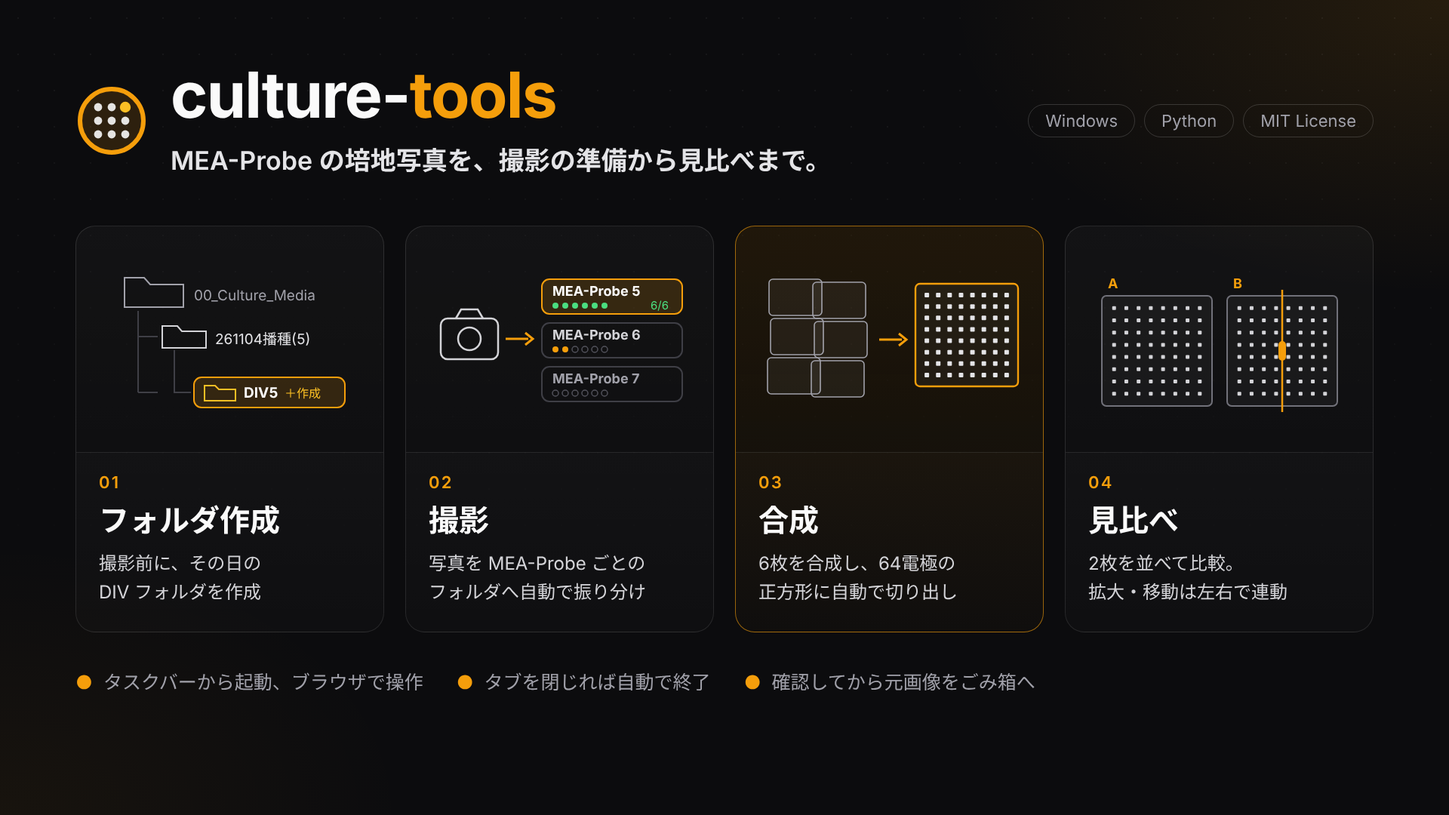
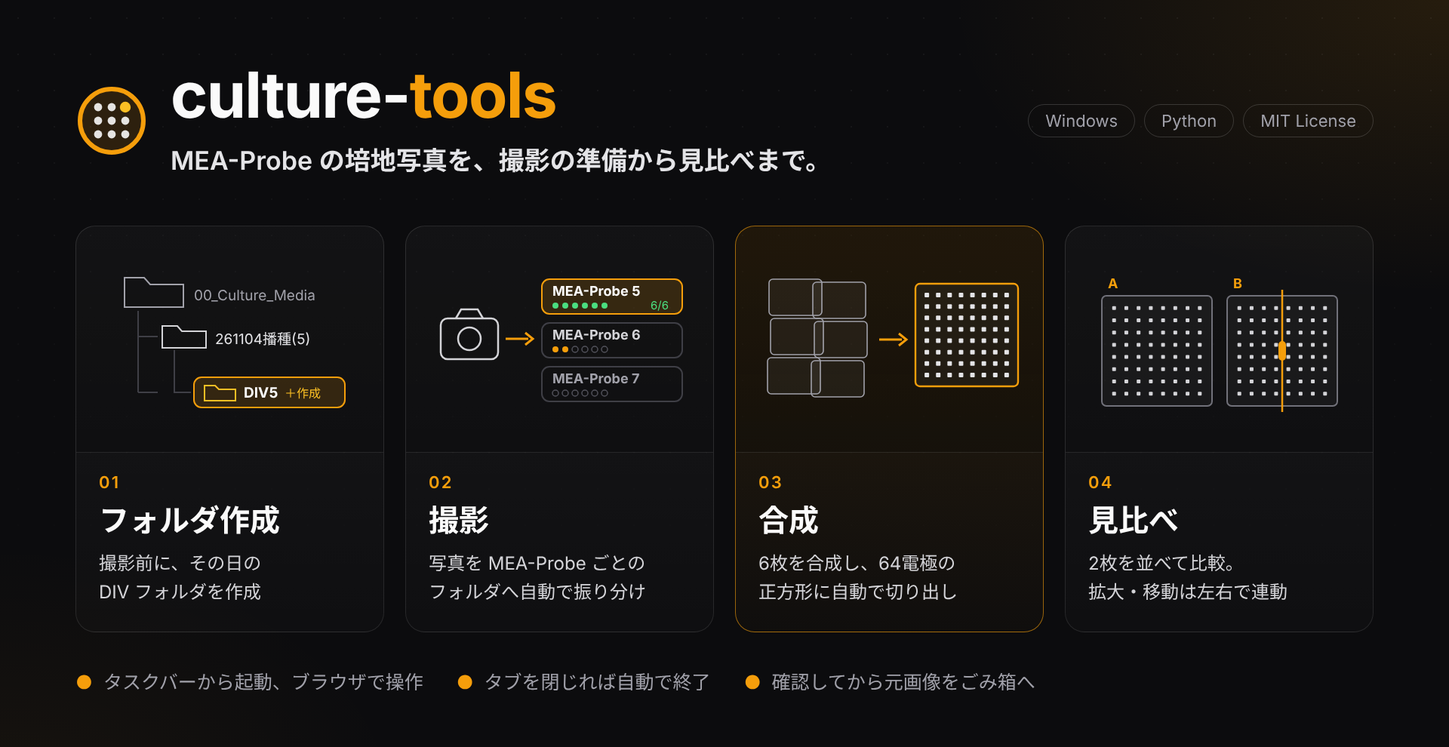
自分専用の環境に依存しない設計への変更

diff --git a/stitch/culture_stitch.py b/stitch/culture_stitch.py
@@ -1,7 +1,7 @@
 """MEA-Probe 培地写真の合成ツール
 
 使い方:
-    python culture_stitch.py stitch [フォルダ ...]   合成（フォルダ省略時は 00_Culture_Media 全体を走査）
+    python culture_stitch.py stitch [フォルダ ...]   合成（フォルダ省略時は、初回に選んだ写真のフォルダ全体を走査）
     python culture_stitch.py cleanup                 直前の合成で処理したフォルダの元画像をごみ箱へ移動
 
 合成のあとは確認ページを自分のパソコン内だけで配信し、ページのボタンから元画像を削除できる。
@@ -40,7 +40,7 @@ RAW_PATTERN = re.compile(r"^IMG_\d+\.jpe?g$", re.IGNORECASE)
 
 
 def load_root() -> Path | None:
-    """初回起動時に選んだ写真のフォルダ（00_Culture_Media）を読む。まだ選んでいなければ None"""
+    """初回起動時に選んだ写真のフォルダを読む。まだ選んでいなければ None"""
     try:
         p = json.loads(CONFIG.read_text(encoding="utf-8")).get("root")
     except (OSError, ValueError, AttributeError):
@@ -66,29 +66,21 @@ class FolderInfo:
 def parse_folder(folder: Path, raw_files: list[Path]) -> FolderInfo:
     """フォルダ名から Probe 番号・播種日・DIV（Days In Vitro: 播種後経過日数）を読み取る。
 
-    想定する構成:
-      261028播種(6)/DIV7              … 現行
-      260617播種(5, 6)/day7/5         … 旧形式（Probe ごとのサブフォルダ）
+    想定する構成: 261028播種(6)/DIV7（1 つの播種フォルダに Probe 番号は 1 つ）
     """
     probe = seed = div = None
     parts = folder.parts
     for i, name in enumerate(parts):
-        m = re.match(r"^(\d{6})播種\(([\d,\s]+)\)$", name)
+        m = re.match(r"^(\d{6})播種\((\d+)\)$", name)
         if not m:
             continue
         seed = dt.datetime.strptime(m.group(1), "%y%m%d").date()
-        probes = [int(x) for x in re.findall(r"\d+", m.group(2))]
+        probe = int(m.group(2))
         rest = parts[i + 1:]
         if rest:
-            d = re.match(r"^(?:DIV|day)(\d+)$", rest[0], re.IGNORECASE)
+            d = re.match(r"^DIV(\d+)$", rest[0], re.IGNORECASE)
             if d:
                 div = int(d.group(1))
-        if len(probes) == 1:
-            probe = probes[0]
-        else:
-            for name2 in rest[1:]:
-                if name2.isdigit() and int(name2) in probes:
-                    probe = int(name2)
         break
     return FolderInfo(folder, raw_files, probe, seed, div)
 
@@ -446,7 +438,7 @@ def render_page(results: list[Result], token: str | None = None, brand: str | No
         note = ("緑の円は検出した電極の位置です。画像をクリックすると原寸の合成画像を開きます。"
                 "このページは記録用です。元画像の削除は、culture-tools の「合成」画面から行えます。")
         bar = script = ""
-    return (f'<!doctype html><html lang="ja"><meta charset="utf-8"><title>合成結果の確認 | culture-stitcher</title>'
+    return (f'<!doctype html><html lang="ja"><meta charset="utf-8"><title>合成結果の確認 | culture-tools</title>'
             f'<link rel="icon" type="image/svg+xml" href="{FAVICON}">'
             f'<style>{PAGE_CSS}</style><body data-token="{token or ""}">'
             f'{header}<main>'
@@ -649,7 +641,7 @@ def main() -> None:
     ap = argparse.ArgumentParser(description="MEA-Probe 培地写真の合成ツール")
     sub = ap.add_subparsers(dest="cmd", required=True)
     s = sub.add_parser("stitch", help="合成する")
-    s.add_argument("folders", nargs="*", help="対象フォルダ（省略時は 00_Culture_Media 全体）")
+    s.add_argument("folders", nargs="*", help="対象フォルダ（省略時は、初回に選んだ写真のフォルダ全体）")
     s.add_argument("--force", action="store_true", help="既存の合成画像を上書きする")
     s.add_argument("--no-open", action="store_true", help="確認ページを自動で開かない")
     s.add_argument("--no-serve", action="store_true", help="削除ボタン付きのページを配信せず、記録用ページだけ作る")

diff --git a/viewer/culture_viewer.py b/viewer/culture_viewer.py
@@ -1,10 +1,10 @@
-"""MEA-Probe 合成画像の見比べツール（culture-viewer）
+"""MEA-Probe 合成画像の見比べ（culture-tools の「見比べ」画面）
 
 使い方:
-    python culture_viewer.py [フォルダ]    フォルダ省略時は 00_Culture_Media を読む
+    python culture_viewer.py [フォルダ]    フォルダ省略時は、初回に選んだ写真のフォルダを読む
 
-00_Culture_Media の「YYMMDD播種(番号)\\DIVn\\YYMMDD_番号.jpg」を集め、2 枚を左右に並べて
-（または重ねて）見比べる画面をブラウザで開く。画像は読むだけで、vault 内のファイルは変更しない。
+写真のフォルダの「YYMMDD播種(番号)\\DIVn\\YYMMDD_番号.jpg」を集め、2 枚を左右に並べて
+（または重ねて）見比べる画面をブラウザで開く。画像は読むだけで、写真のフォルダ内のファイルは変更しない。
 画面を閉じるか「終了」を押すと、このツールも終了する。
 """
 from __future__ import annotations
@@ -47,7 +47,7 @@ def scan(root: Path) -> tuple[list[dict], list[str]]:
     for seed_dir in sorted(p for p in root.iterdir() if p.is_dir()):
         m = SEED_RE.match(seed_dir.name)
         if not m:
-            continue                       # 旧形式（Probe が 2 つのフォルダ）などは対象外
+            continue                       # 名前の規則と違うフォルダは対象外
         seed = dt.datetime.strptime(m.group(1), "%y%m%d").date()
         probe = int(m.group(2))
         for div_dir in sorted(p for p in seed_dir.iterdir() if p.is_dir()):
@@ -124,7 +124,7 @@ def medium_image(i: int, e: dict) -> bytes:
 
 # ---------------------------------------------------------------- 画面
 
-# culture-viewer のロゴ（culture-stitcher のロゴの色を反転したもの。デスクトップのアイコンと同じ図案）
+# 単体で起動したときのロゴ（culture-tools のロゴの色を反転したもの）
 LOGO = ("<svg xmlns='http://www.w3.org/2000/svg' viewBox='0 0 32 32' fill='none'>"
         "<circle cx='16' cy='16' r='15' fill='#f59e0b'/>"
         + "".join(f"<circle cx='{x}' cy='{y}' r='2' fill='#111113'/>"
@@ -523,7 +523,7 @@ def render_page(entries: list[dict], samples: list[dict], warns: list[str], toke
                        f'<div class="pop" id="pop{p}"></div></div>')
     vp = lambda p: f'<div class="vp" id="v{p}"><img id="i{p}" alt=""></div>'
     warn_list = "".join(f"<li>{html.escape(w)}</li>" for w in warns)
-    return (f'<!doctype html><html lang="ja"><meta charset="utf-8"><title>見比べ | culture-viewer</title>'
+    return (f'<!doctype html><html lang="ja"><meta charset="utf-8"><title>見比べ | culture-tools</title>'
             f'<link rel="icon" type="image/svg+xml" href="{FAVICON}"><style>{CSS}</style><body>'
             f'{header}<div id="warns"><ul>{warn_list}</ul></div>'
             f'<div id="ctrl">{panel("A")}<div id="mid"><div id="rel"></div><div id="hint">ホイール・ピンチで拡大　ドラッグで移動　ダブルクリックで全体　←→ で B の日付を送る（Shift で A）</div></div>{panel("B")}</div>'

diff --git a/app/culture_app.py b/app/culture_app.py
@@ -218,7 +218,7 @@ def stitch_page(token: str) -> str:
             'border-radius:8px;padding:6px 14px;font:inherit;cursor:pointer}.btn-line:hover{border-color:rgba(255,255,255,.3)}'
             f'</style><body data-token="{token}" data-running="{1 if Job.running else 0}">'
             f'<header class="top">{brand("stitch", token)}</header><main><h1>合成</h1>'
-            '<p>合成前の写真（IMG_数字.JPG が 6 枚）が入った DIV フォルダを 00_Culture_Media の中から探し、まとめて合成します。'
+            '<p>合成前の写真（IMG_数字.JPG が 6 枚）が入った DIV フォルダを写真のフォルダの中から探し、まとめて合成します。'
             '合成が終わると、この画面に結果が表示されます。</p>'
             f'{body}</main><div id="bar"><button id="run"{"" if ready else " disabled"}>{label}</button>'
             '<div id="prog-wrap"><div id="prog"></div></div><span id="msg"></span></div>'
@@ -366,7 +366,7 @@ def serve() -> None:
                 if p is None:
                     return self._json({})
                 if ROOT.resolve() == p.resolve() or ROOT.resolve() in p.resolve().parents:
-                    return self._json({"error": "写真のフォルダ（00_Culture_Media）の外のフォルダを選んでください"})
+                    return self._json({"error": "写真のフォルダの外のフォルダを選んでください"})
                 cc.save_inbox(p)
                 return self._json({})
             if path == "/capture/start":
@@ -478,7 +478,7 @@ def ask(msg: str) -> bool:
 
 
 def choose_root(prev: Path | None) -> Path | None:
-    """写真のフォルダ（00_Culture_Media）を選んでもらい、app\\config.json に覚える"""
+    """写真のフォルダ（YYMMDD播種(番号) のフォルダを入れる場所）を選んでもらい、app\\config.json に覚える"""
     if prev is not None and not ask(
             f"写真のフォルダが見つかりません。\n{prev}\n\n"
             "Google ドライブなど、フォルダのある場所が使える状態か確認してください。\n\n"
@@ -491,7 +491,7 @@ def choose_root(prev: Path | None) -> Path | None:
     w.attributes("-topmost", True)
     while True:
         picked = filedialog.askdirectory(parent=w, mustexist=True,
-                                         title="写真のフォルダ（00_Culture_Media など）を選んでください")
+                                         title="写真のフォルダ（YYMMDD播種(番号) のフォルダを入れる場所）を選んでください")
         if not picked:
             w.destroy()
             return None

diff --git a/capture/culture_capture.py b/capture/culture_capture.py
@@ -503,7 +503,7 @@ def start(root: Path, scan: list[dict], keys: list[str]) -> str:
     if inbox is None or not inbox.is_dir():
         return "取り込み元フォルダを選んでください"
     if root.resolve() == inbox.resolve() or root.resolve() in inbox.resolve().parents:
-        return "取り込み元フォルダには、写真のフォルダ（00_Culture_Media）の外のフォルダを選んでください"
+        return "取り込み元フォルダには、写真のフォルダの外のフォルダを選んでください"
     by_key = {t["key"]: t for t in today_targets(root, scan)}
     queue = [by_key[k] for k in keys if k in by_key]
     if not queue:

diff --git a/README.md b/README.md
@@ -4,7 +4,7 @@
 
 MEA-Probe（Microelectrode Array Probe：微小電極アレイを備えた培養器）の培地写真を扱うツールです。撮影前のフォルダ作成、撮影した写真のMEA-Probeごとの振り分け、顕微鏡で6枚に分けて撮った写真の合成、合成画像の見比べを、1つの画面で行います。
 
-8×8（64電極）のMEA-Probeを、倒立顕微鏡に取り付けたカメラで6枚に分けて撮影する運用を前提にしています。動作するのはWindowsのパソコンです。
+8×8（64電極）のMEA-Probeを、倒立顕微鏡に取り付けたカメラで6枚に分けて撮影する運用を前提にしています。撮影機能は、Canon のカメラ用ソフト EOS Utility で写真をパソコンに保存する使い方を想定しています。動作するのはWindowsのパソコンです。
 
 ## 目次
 
@@ -29,7 +29,7 @@ MEA-Probe（Microelectrode Array Probe：微小電極アレイを備えた培養
 | Probe番号 | MEA-Probeに振った番号。フォルダ名の括弧内の数字（例：`261028播種(6)` の6） |
 | DIV | Days In Vitro（播種当日をDIV0とした経過日数） |
 | 元画像 | 顕微鏡で撮影した6枚の写真（`IMG_0001.JPG` など） |
-| 追加の写真 | 6枚とは別に撮った写真（レーザー照射部位の拡大写真など）。合成には使わない（例：`261109_5_extra1.JPG`） |
+| 追加の写真 | 6枚とは別に撮った写真（例えば、1つの電極を拡大した写真）。合成には使わない（例：`261109_5_extra1.JPG`） |
 | 合成画像 | 6枚を合成し、64電極が収まる正方形に切り出した画像（例：`261104_6.jpg`） |
 
 ### 作業の流れ
@@ -43,7 +43,7 @@ MEA-Probe（Microelectrode Array Probe：微小電極アレイを備えた培養
 
 ### 置き場所
 
-ツールは機能ごとにフォルダが分かれています。写真のフォルダ（例：Googleドライブ上の `00_Culture_Media`）とは別の場所に置いてください。写真のフォルダにはプログラムを置きません。
+ツールは機能ごとにフォルダが分かれています。写真のフォルダ（`YYMMDD播種(番号)` のフォルダを入れる場所）とは別の場所に置いてください。写真のフォルダにはプログラムを置きません。
 
 | フォルダ・ファイル | 中身 |
 | --- | --- |
@@ -65,7 +65,7 @@ MEA-Probe（Microelectrode Array Probe：微小電極アレイを備えた培養
 2. **Pythonを確認する**：コマンドプロンプトで `py --version` と入力し、`Python 3.12` 以降が表示されれば問題ありません。表示されなければ [python.org](https://www.python.org/downloads/) からインストールします（インストール時の設定は既定のままで構いません）。
 3. **`タスクバー用のショートカットを作成.bat` をダブルクリックする**：実行環境がまだなければ `app\.venv` に作られ（数分かかり、インターネット接続が必要）、スタートメニューに culture-tools のショートカットができます。
 4. **タスクバーにピン留めする**：自動で開いたフォルダで culture-tools を右クリックし、「タスクバーにピン留めする」を選びます。Windows 11で見当たらない場合は、「その他のオプションを確認」の中にあります。
-5. **写真のフォルダを選ぶ**：タスクバーから初めて起動すると、フォルダを選ぶ画面が出ます。写真のフォルダ（例：`00_Culture_Media`）を選ぶと、その場所が `app\config.json` に保存され、次からは自動で使われます。
+5. **写真のフォルダを選ぶ**：タスクバーから初めて起動すると、フォルダを選ぶ画面が出ます。写真のフォルダを選ぶと、その場所が `app\config.json` に保存され、次からは自動で使われます。
 
 スタートメニューで「culture」と検索しても起動できます。
 
@@ -104,10 +104,10 @@ MEA-Probe（Microelectrode Array Probe：微小電極アレイを備えた培養
 
 ### フォルダ名の規則
 
-手でフォルダを作る場合は、`00_Culture_Media` の下に次の形で作ります。
+手でフォルダを作る場合は、写真のフォルダの下に次の形で作ります。
 
 ```
-00_Culture_Media\261028播種(6)\DIV7
+（写真のフォルダ）\261028播種(6)\DIV7
 ```
 
 | 部分 | 意味 | 例 |
@@ -117,7 +117,7 @@ MEA-Probe（Microelectrode Array Probe：微小電極アレイを備えた培養
 | `(6)` | Probe番号（半角数字と半角括弧、1つのフォルダに1つ） | 6番 |
 | `DIV7` | DIV | 播種から7日目 |
 
-播種のフォルダは播種のときに1回作ればよく、以降は撮影のたびにDIVフォルダを足します。古い形式（`260617播種(5, 6)\day7\5` のように、1つのフォルダに複数のProbe番号を入れる形）は、合成では読み取れますが、フォルダ作成と見比べでは扱いません。新しく作るときは使わないでください。
+播種のフォルダは播種のときに1回作ればよく、以降は撮影のたびにDIVフォルダを足します。1つの播種フォルダに入れるProbe番号は1つです。同じ日に複数のMEA-Probeを播種したときは、番号ごとに別のフォルダを作ります。この形と違う名前のフォルダは、どの画面でも扱いません。
 
 ## 撮影
 
@@ -128,7 +128,7 @@ MEA-Probe（Microelectrode Array Probe：微小電極アレイを備えた培養
 1. EOS Utilityの保存先を、パソコン内の決まったフォルダ（例：`ピクチャ\EOS取り込み`）に固定する
 2. 「撮影」画面の「取り込み元フォルダ」で「変更」を押し、同じフォルダを選ぶ（`app\config.json` に保存され、次からは自動で使われる）
 
-取り込み元フォルダには、Googleドライブではなくパソコン内のフォルダを選んでください（Googleドライブだと届くのが遅れることがあります）。写真のフォルダ（`00_Culture_Media`）の中は選べません。
+取り込み元フォルダには、Googleドライブではなくパソコン内のフォルダを選んでください（Googleドライブだと届くのが遅れることがあります）。写真のフォルダの中は選べません。
 
 ### 撮影モードの使い方
 
@@ -143,7 +143,7 @@ MEA-Probe（Microelectrode Array Probe：微小電極アレイを備えた培養
 | 1枚戻す（撮り直し） | 直前に移した1枚を取り込み元フォルダへ戻す。続けて押せば何枚でも戻せる。前のMEA-Probeの写真と、中断する前に撮った写真は戻せない |
 | 途中で中断する | 残りのMEA-Probeを撮らずに撮影モードをやめる。最後のMEA-Probeを6枚撮り終えたあとは表示されない |
 
-**追加の写真（7枚目以降）**：レーザー照射部位の拡大写真など、6枚とは別に撮りたい写真は、**そのMEA-Probeの6枚を撮り終えてから**撮ります。6枚そろったあとに届いた写真は、名前を `撮影日_Probe番号_extra連番.JPG`（例：`261109_5_extra1.JPG`）に変えて同じDIVフォルダに保存し、6枚の下に「追加の写真」として表示します。`IMG_` で始まらない名前なので合成には使われず、あとから `261109_5_ch10.JPG` のように名前を変えても構いません。6枚を撮り終える前に撮った写真は、6枚の1枚として扱われます。
+**追加の写真（7枚目以降）**：1つの電極を拡大した写真など、6枚とは別に撮りたい写真は、**そのMEA-Probeの6枚を撮り終えてから**撮ります。6枚そろったあとに届いた写真は、名前を `撮影日_Probe番号_extra連番.JPG`（例：`261109_5_extra1.JPG`）に変えて同じDIVフォルダに保存し、6枚の下に「追加の写真」として表示します。`IMG_` で始まらない名前なので合成には使われず、あとから、例えば10番の電極を拡大した写真なら `261109_5_ch10.JPG` のように、分かりやすい名前に変えても構いません。6枚を撮り終える前に撮った写真は、6枚の1枚として扱われます。
 
 **中断と再開**：中断しても、それまでに撮った写真はDIVフォルダに残ります。再開するときは、同じMEA-Probeをもう一度選んで「撮影を始める」を押すと、続きの枚数（例：3 / 6 枚）から撮れます。中断しているあいだに撮った写真は取り込み元フォルダに残り、再開しても取り込まれません。
 
@@ -157,7 +157,7 @@ MEA-Probe（Microelectrode Array Probe：微小電極アレイを備えた培養
 
 ### 撮影モードを使わない場合
 
-EOS Utilityの保存先を、撮るMEA-ProbeのDIVフォルダに切り替えながら撮影しても構いません。この場合、6枚とは別に撮った写真（拡大写真など）は、`IMG_` で始まらない名前（例：`261104_6_ch10.JPG`）に変えてから合成します。
+EOS Utilityの保存先を、撮るMEA-ProbeのDIVフォルダに切り替えながら撮影しても構いません。この場合、6枚とは別に撮った写真（電極の拡大写真など）は、`IMG_` で始まらない名前（例：10番の電極なら `261104_6_ch10.JPG`）に変えてから合成します。
 
 ### ファイル名
 
@@ -177,7 +177,7 @@ EOS Utilityの保存先を、撮るMEA-ProbeのDIVフォルダに切り替えな
 
 ### 合成を始める
 
-「合成」に切り替えると、`00_Culture_Media` の中から合成待ちのフォルダ（元画像がちょうど6枚あり、合成画像がまだないDIVフォルダ）が一覧で表示されます。元画像が6枚でないフォルダは、「枚数が 6 枚でないため合成しないフォルダ」として枚数といっしょに表示されます。
+「合成」に切り替えると、写真のフォルダの中から合成待ちのフォルダ（元画像がちょうど6枚あり、合成画像がまだないDIVフォルダ）が一覧で表示されます。元画像が6枚でないフォルダは、「枚数が 6 枚でないため合成しないフォルダ」として枚数といっしょに表示されます。
 
 「合成を開始」を押すと、進み具合（何フォルダ中何フォルダ目か）が画面下に表示されます。1フォルダあたり数秒で終わり、終わると結果の画面に切り替わります。合成済みのフォルダは上書きしないので、何度押しても安全です。
 
@@ -226,7 +226,7 @@ EOS Utilityの保存先を、撮るMEA-ProbeのDIVフォルダに切り替えな
 
 「見比べ」では、合成画像を左（A）と右（B）に並べて比べます。画像は読むだけで、写真のフォルダ内のファイルには手を加えません。写真の上には文字や印を重ねず、MEA-Probeと日付は写真の上の操作欄に表示します。
 
-対象は `YYMMDD播種(番号)\DIVn\YYMMDD_番号.jpg` の形の合成画像です。以前の形のフォルダ（`260617播種(5, 6)` など）や、DIVフォルダの下にさらにフォルダがある場合は表示されません。
+対象は `YYMMDD播種(番号)\DIVn\YYMMDD_番号.jpg` の形の合成画像です。フォルダ名の規則と違うフォルダや、DIVフォルダの下にさらにフォルダがある場合は表示されません。
 
 | したいこと | 操作 |
 | --- | --- |
@@ -243,7 +243,7 @@ EOS Utilityの保存先を、撮るMEA-ProbeのDIVフォルダに切り替えな
 画面上部の中央には、2枚の関係（「同じMEA-Probe」と日数の差、「同じ日に撮影」など）が表示されます。
 
 - **初めて表示する画像は少し時間がかかる**：通常は縮小した画像を使い、拡大すると原寸に切り替わります。縮小画像はアプリを開いている間だけ保持し、同じ画像の2回目からはすぐに表示されます。ディスクには保存しないので、パソコンの容量は使いません。
-- **拡大の連動は大まかな位置合わせ**：2枚の同じ割合の位置（例：左から30%、上から40%）を合わせています。このツールで合成した画像同士は電極の位置がほぼ揃いますが、サイトで手作業で切り出した以前の画像は、範囲や傾きが少しずつ違うため、同じ電極が少しずれて表示されます。
+- **拡大の連動は大まかな位置合わせ**：2枚の同じ割合の位置（例：左から30%、上から40%）を合わせています。このツールで合成した画像同士は電極の位置がほぼ揃いますが、Panorama Image Stitcher などで手作業で切り出した画像は、範囲や傾きが少しずつ違うため、同じ電極が少しずれて表示されます。
 - **「注意」ボタン**：名前の形が規則と違う合成画像や、日付が播種日＋DIVと合わない画像があると、画面右上に表示されます。押すと、どのファイルかが一覧できます。
 
 ## 困ったとき
@@ -252,12 +252,12 @@ EOS Utilityの保存先を、撮るMEA-ProbeのDIVフォルダに切り替えな
 
 | 表示されるメッセージ | 原因 | 対処 |
 | --- | --- | --- |
-| 写真のフォルダが見つかりません（通知） | Googleドライブが起動していない、または写真のフォルダを移動した | Googleドライブを起動してから開き直す。フォルダを移動した場合は「はい」を押して選び直す |
+| 写真のフォルダが見つかりません（通知） | 写真のフォルダのあるドライブ（Googleドライブなど）が使えない、または写真のフォルダを移動した | ドライブが使える状態にしてから開き直す。フォルダを移動した場合は「はい」を押して選び直す |
 | culture-tools を起動できませんでした（通知） | 予想していない問題が起きた | `app\app.log` の内容を確かめる |
 | culture-tools は終了しています | 画面を閉じたあとで、古いタブに戻った | タスクバーから開き直す |
 | 枚数が 6 枚でないため合成しないフォルダ | 撮り直しで多い、または撮り忘れで少ない | 不要な写真を消すか足りない写真を撮って6枚にし、「合成」を開き直す |
 | 撮影日 … がフォルダ名からの計算値 … と異なります | DIVの数字か播種日の誤り、またはカメラの時計のずれ | フォルダ名を確かめる。ファイル名には撮影日が使われている |
-| 合成に失敗しました | 写真同士の重なりが足りない、ひどくぼけている、別のMEA-Probeの写真が混ざっている | 6枚を見直し、撮り直すかサイトで手作業で合成する |
+| 合成に失敗しました | 写真同士の重なりが足りない、ひどくぼけている、別のMEA-Probeの写真が混ざっている | 6枚を見直し、撮り直すか Panorama Image Stitcher で手作業で合成する |
 | 電極がほとんど検出できません | ピントが電極に合っていない | ピントを合わせて撮り直す |
 | 格子上で検出できた電極が n/64 個です | 一部の電極がぼけているか、細胞塵に覆われている | 原寸画像を見て、緑の円が電極に重なっていれば問題ない |
 | 縦横の電極間距離が一致しません／格子が直交していません／等間隔格子から外れています | 合成がずれている可能性が高い | 原寸画像で継ぎ目を確かめ、ずれていれば合成画像を消して撮り直す |
